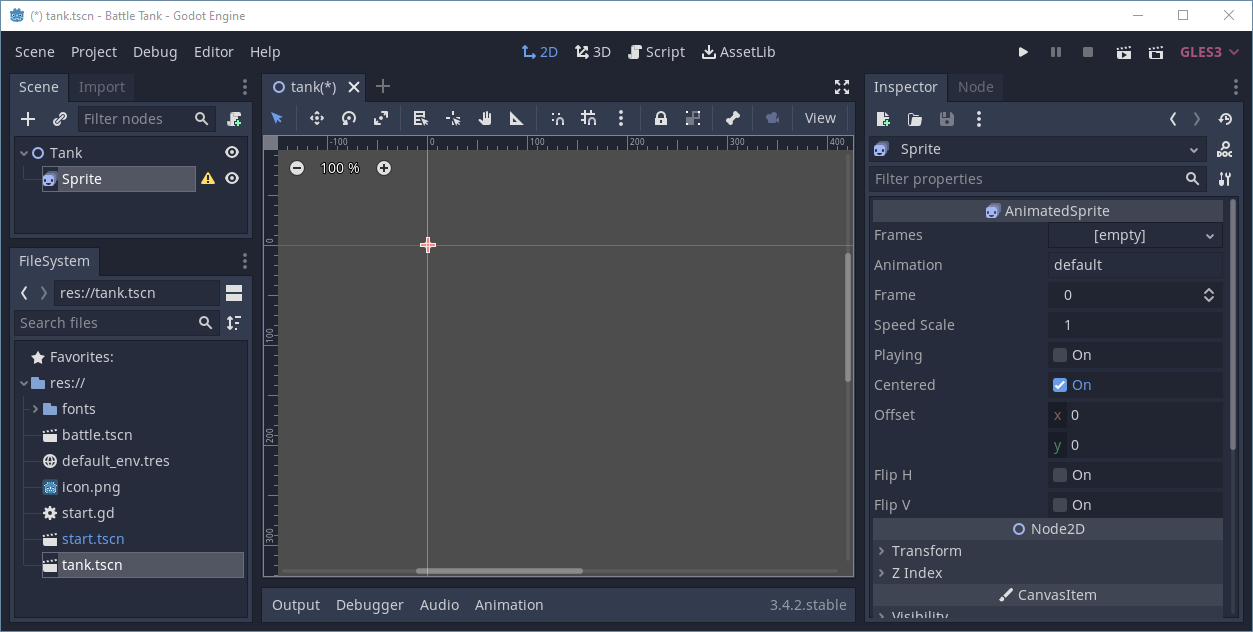
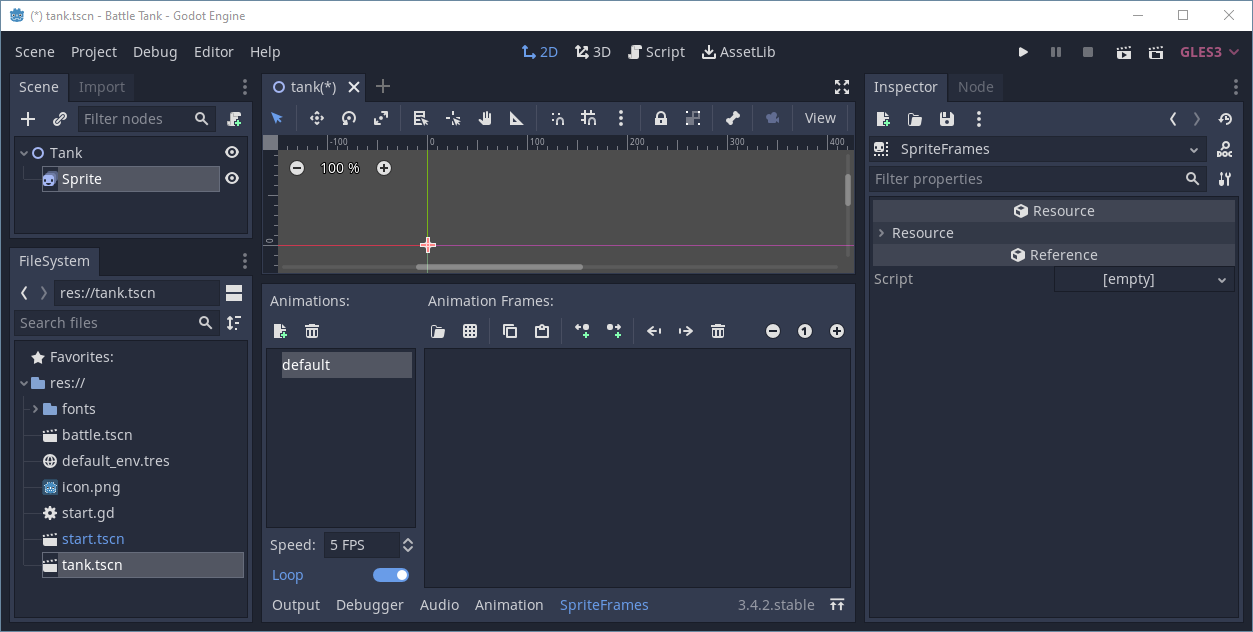
- move tank

diff --git a/Battle Docs/02.md b/Battle Docs/02.md
@@ -12,52 +12,90 @@ Sprite (สำหรับ Computer) ก็คือ ภาพ หรือ Imag
 
 ## AnimatedSprite
 
-สร้าง Scene ใหม่ขึ้นมา เป็น 2D Scene เหมือนกับ battle Scene ที่สร้างในบทที่แล้ว Rename Node2D เป็น Tank และสุดท้าย เซฟในชื่อ tank.tscn ตามรูปที่ 1
+สร้าง Scene ใหม่ขึ้นมา เป็น Other Node แล้วเลือก Area2D จากนั้น Rename Area2D เป็น Tank และสุดท้าย เซฟในชื่อ tank.tscn จากนั้น สร้าง Node ใหม่โดยคลิกขวาที่ Tank และเลือก Add Child Node => AnimatedSprite และ Rename เป็น Sprite ตามรูปที่ 1
 
 [รูปที่ 1](images/normals/02-01.png)
 
-สร้าง Node ใหม่โดยคลิกขวาที่ Tank และเลือก Add Child Node => AnimatedSprite และ Rename เป็น Sprite ตามรูปที่ 2
-
-[รูปที่ 2](images/normals/02-02.png)
-
 จากนั้นทางขวา ตรง Inspector คลิกที่ Frames (ตอนนี้ยัง [empty] อยู่) เลือก New SpriteFrames
 
-คลิกที่ SpriteFrames จะมี Animations ปรากฏที่ด้านล่าง ตามรูปที่ 3
+คลิกที่ SpriteFrames จะมี Animations ปรากฏที่ด้านล่าง ตามรูปที่ 2
 
-[รูปที่ 3](images/normals/02-03.png)
+[รูปที่ 2](images/normals/02-02.png)
 
 เราต้องหารูปรถถังมาใช้ และเราคงไม่วาดเอง (เนื่องจากฝีมือวาดรูปผมห่วย T_T) ผมหาไว้ให้แล้ว ไปที่ [Battle City Sprite](https://www.spriters-resource.com/nes/batcity/sheet/60016) และ Download มาครับ
 
 เราต้องการฝีมือ Graphics เล็กน้อย ขอแนะนำโปรแกรม [paint.net](https://getpaint.net) เป็น Photoshop version เล็ก และฟรี Download มาและติดตั้งบนเครื่องคุณเลยครับ
 
-เปิด paint.net ขึ้นมา จากนั้นเลือกไฟล์ Sprite ที่คุณพึ่ง Download มา จะปรากฏรูปที่ 4
+เปิด paint.net ขึ้นมา จากนั้นเลือกไฟล์ Sprite ที่คุณพึ่ง Download มา จะปรากฏรูปที่ 3
 
-[รูปที่ 4](images/normals/02-04.png)
+[รูปที่ 3](images/normals/02-03.png)
 
 1. เลือก Magic Wand
 2. เลือก Tolerance เป็น 0%
 3. เลือก สีดำ ในรูป
 4. กด Del บน Keyboard
-5. จะปรากฏตามรูปที่ 5
+5. จะปรากฏตามรูปที่ 4
+
+[รูปที่ 4](images/normals/02-04a.png)
+
+เซฟไฟล์ไว้ในชื่อ all.png และเอาไว้ใน Folder images ของเกม ตามรูปที่ 5
 
 [รูปที่ 5](images/normals/02-05a.png)
 
-เซฟไฟล์ไว้ในชื่อ all.png และเอาไว้ใน Folder images ของเกม ตามรูปที่ 6
+คลิก icon Add Frames from a Sprite Sheet ตามรูปที่ 6
 
 [รูปที่ 6](images/normals/02-06a.png)
 
-คลิก icon Add Frames from a Sprite Sheet
+จะปรากฏ Dialog สำหรับเลือกไฟล์ เลือกไฟล์ all.png จากนั้นกำหนด Horizontal: 25, Vertical: 16 แล้วกดปุ่ม Select/Clear All Frames จะได้รูปที่ 7
 
-[รูปที่ 7](images/normals/02-07a.png)
+[รูปที่ 7](images/normals/02-07.png)
 
-จะปรากฏ Dialog สำหรับเลือกไฟล์ เลือกไฟล์ all.png จากนั้นกำหนด Horizontal: 25, Vertical: 16 แล้วกดปุ่ม Select/Clear All Frames จะได้รูปที่ 8
+คลิก Add 400 Frame(s) จะปรากฏรูปที่ 8
 
 [รูปที่ 8](images/normals/02-08.png)
-
-คลิก Add 400 Frame(s) จะปรากฏรูปที่ 9
-
-[รูปที่ 9](images/normals/02-09.png)
 
 คลิกที่ Sprite (ซ้าย-บน) แล้วตรง Inspector 
 * เลือก Scale แล้วใส่ x = 4, y = 4 จะเห็นรูปรถถังใหญ่ขึ้น
 * เลือก Centered แล้วเอาออก จะเห็นรูปรถถังเริ่มจาก (0, 0) แทนที่ (-32, -32)
+
+คลิกขวาตรง Tank จากนั้นเลือก Attach Script จากนั้นเขียน Code
+
+----
+
+	extends Area2D
+
+	var velocity = Vector2(0, 0)
+
+	# Called when the node enters the scene tree for the first time.
+	func _ready():
+		pass # Replace with function body.
+
+	# Called every frame. 'delta' is the elapsed time since the previous frame.
+	func _process(delta):
+		# Check input 4 directions.
+		if Input.is_action_pressed("ui_left"):
+			velocity.x = -1
+			velocity.y = 0
+		elif Input.is_action_pressed("ui_right"):
+			velocity.x = 1
+			velocity.y = 0
+		elif Input.is_action_pressed("ui_up"):
+			velocity.x = 0
+			velocity.y = -1
+		elif Input.is_action_pressed("ui_down"):
+			velocity.x = 0
+			velocity.y = 1
+
+		# If has input, move.
+		if velocity.length() > 0:
+			translate(velocity)
+
+ตรง Function _process(delta) นั้น จะถูกเรียกเรื่อยๆ เราจะเช็คปุ่ม ซ้าย, ขวา, บน และ ล่าง ถ้ามี เราจะเพิ่มความเร็ว velocity จากนั้น ถ้ามีความเร็วมากกว่า 0 (velocity.length() > 0), เราจะ translate ไปตามความเร็ว
+
+จากนั้นเปิดไฟล์ battle ขึ้นมา แล้วเลือก Instance Child Scene จะปรากฏ Dialog ใช้เลือก Scene tank จะได้ Tank โผล่ขึ้นมา
+
+[รูปที่ 9](images/normals/02-09.png)
+
+ทดลองรัน และกดปุ่ม ซ้าย, ขวา, บน และ ล่าง จะเห็นรถถังวิ่งไป :)
+
+[รูป] 
